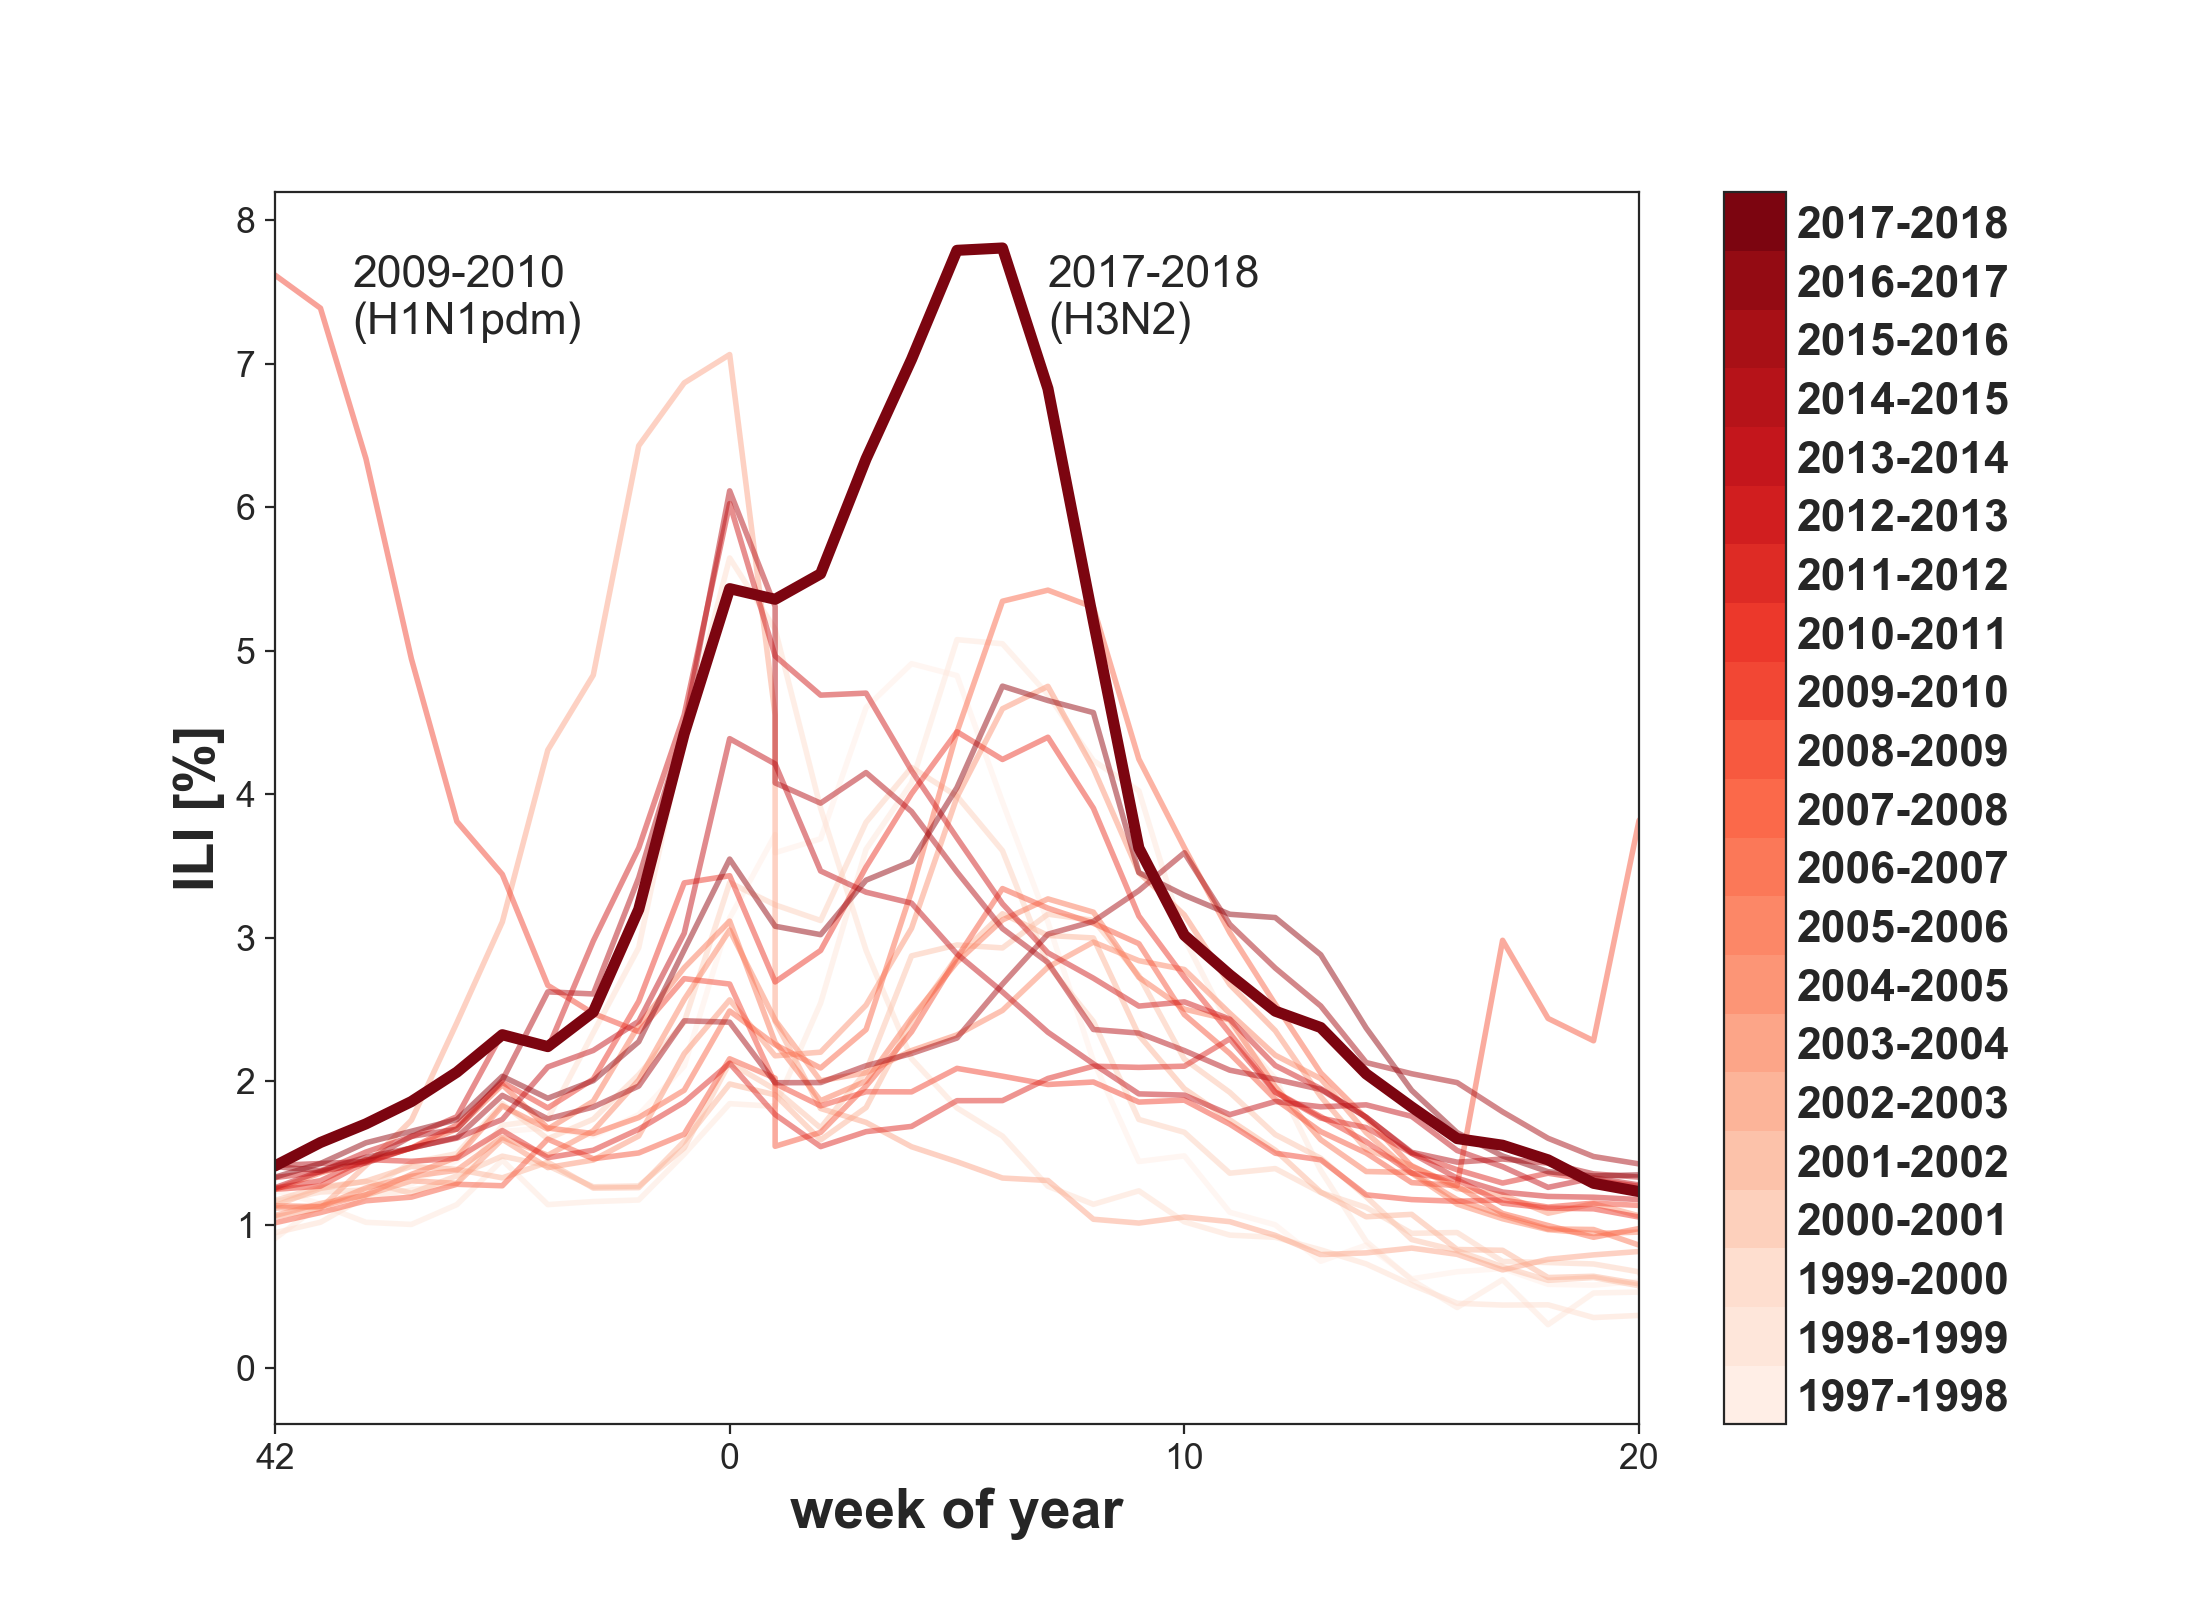
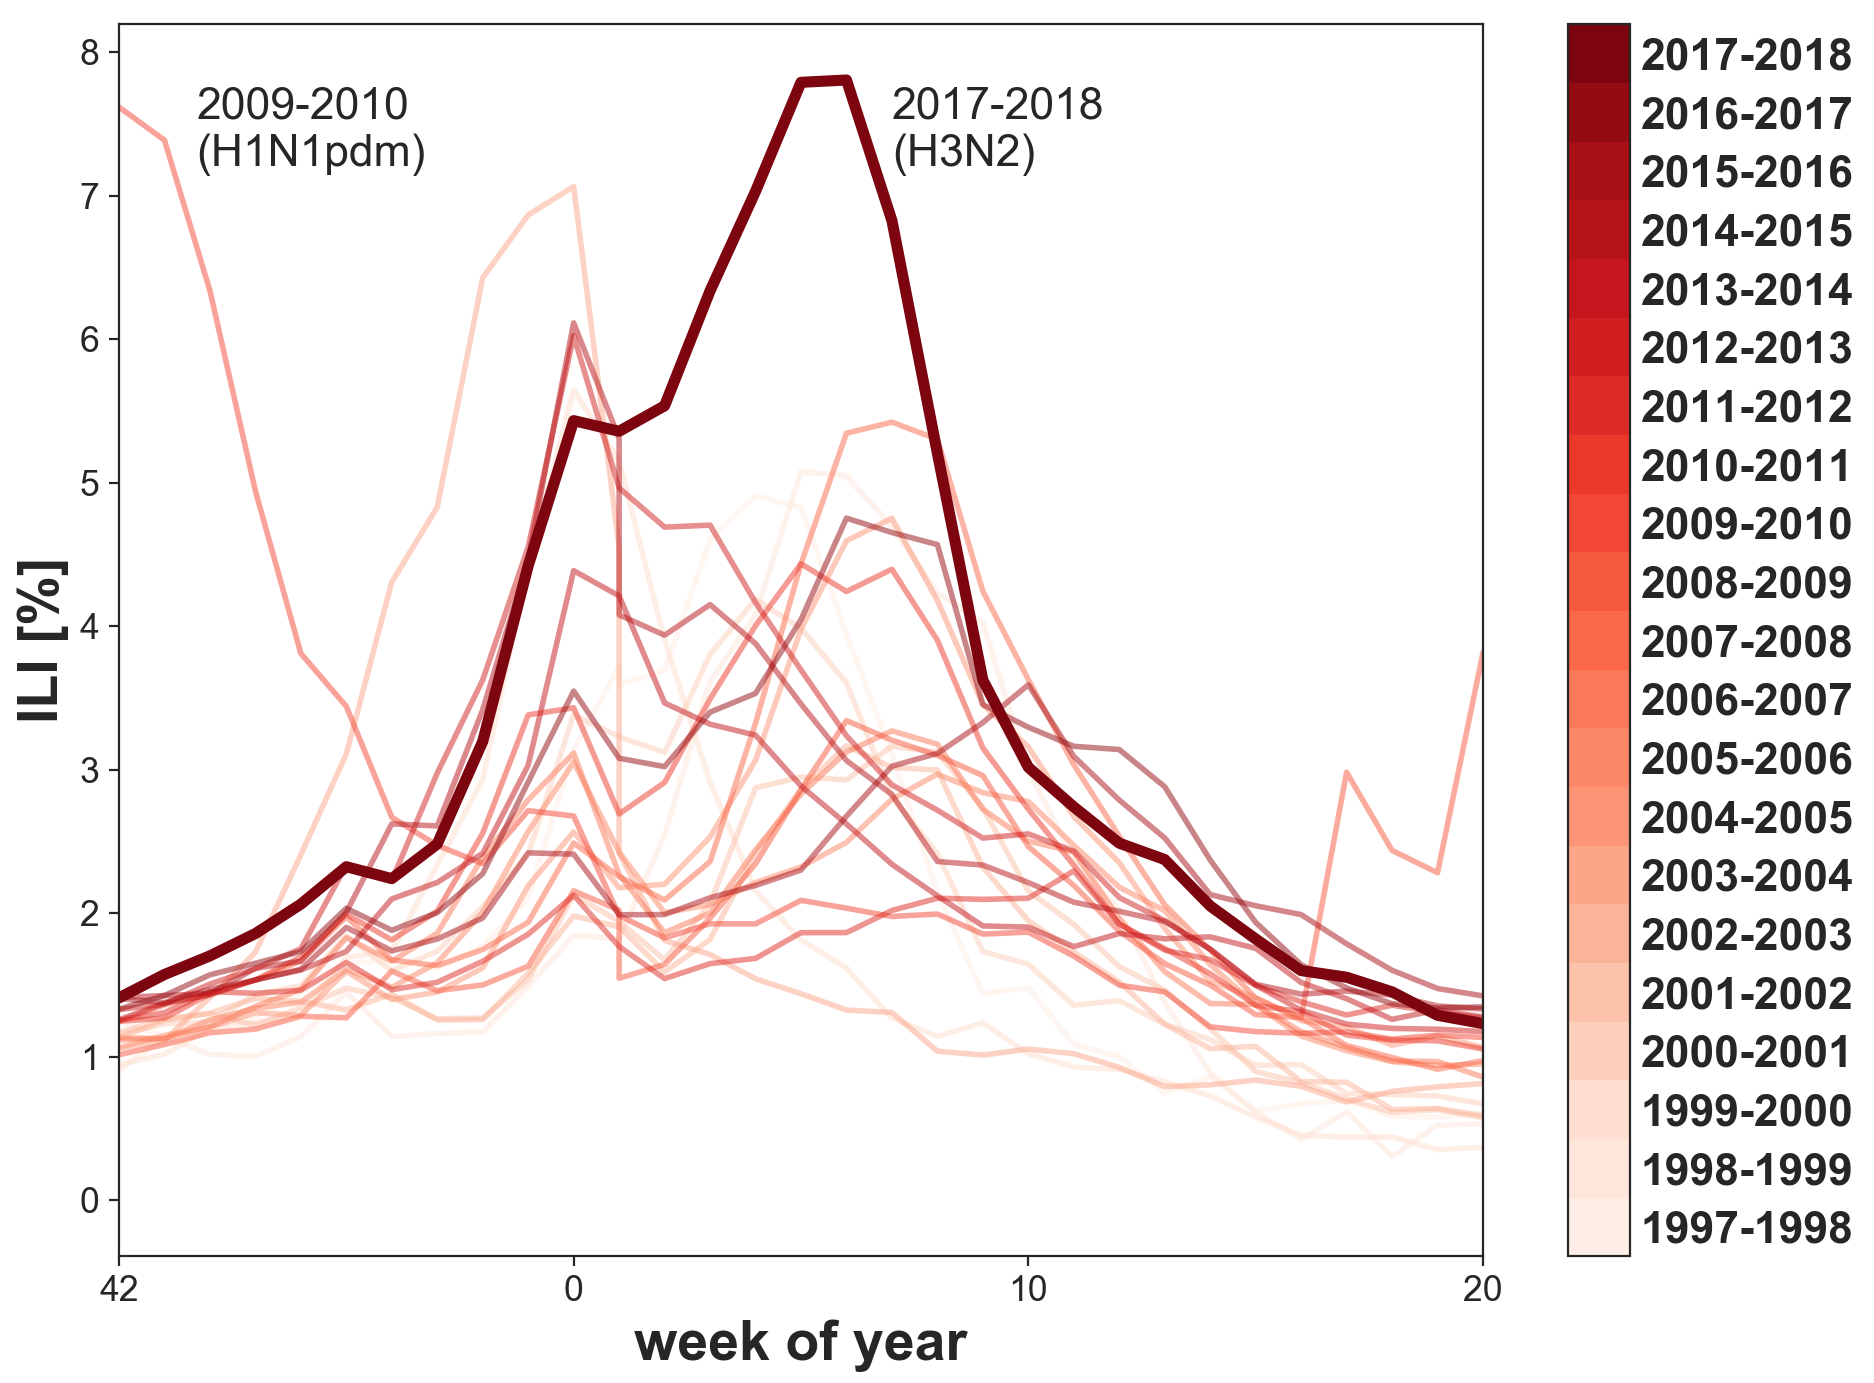
Improve manuscript aethetics
1. Remove RMP style. I really wasn't liking all the white space
this was creating.
2. Remove extraneous whitespace from freq figure and ILI figure
3. Move figures inline

diff --git a/manuscript/main.tex b/manuscript/main.tex
@@ -24,6 +24,14 @@ From this abundance of genomic data, the dynamics of reassortment can be analyze
 Here, we use tools from the Nextstrain project \citep{hadfield_nextstrain_2018} to show that a reassortant A(H3N2) genome constellation dominated the 2017–2018 North American influenza season.
 We go on to show that viruses with this genome constellation had the HA and PB1 segments of one parental virus with the other six segments of another virus, and that the progenitor virus likely emerged in late 2016 or early 2017.
 
+\begin{figure}[t]
+    \begin{center}
+    \includegraphics[width=0.49\textwidth]{figures/ili_1997_2018.png}
+    \end{center}
+    \caption{Percentage of health care visits for influenza-like illness (ILI) in the US from the 1997-1998 to the 2017-2018 season with season indicated by color. The 2017-2018 season is highlighted as a thick line; it showed the highest ILI rate since the 2009 H1N1 pandemic virus. Data from CDC (2018).}
+    \label{fig:ili}
+\end{figure}
+
 \section*{Methods}
 \subsection*{Sequence data}
 We built phylogenetic trees and frequency estimates for each segment of the influenza virus genome containing data from a two-year window between April 2016--April 2018, as well as a small set of older reference viruses.
@@ -53,6 +61,14 @@ At the season’s peak, influenza A viruses were responsible for 7.7\% of all ho
 The fraction of health care visits for ILI surpassed those of the 2009 influenza epidemic season (Fig.~\ref{fig:ili})---a season marked by the emergence of the A(H1N1)pdm09 pandemic virus, that continues to cause annual epidemics in humans \citep{garten_antigenic_2009}.
 In addition to rising to high levels, the ILI score stayed above 4\% for 10 weeks during the 2017-2018 North American influenza season.
 
+\begin{figure}[t]
+    \begin{center}
+    \includegraphics[width=0.49\textwidth]{figures/2y_clades.png}
+    \end{center}
+    \caption{Temporally resolved phylogenetic tree of recent A(H3N2) HA sequences. Shown are influenza viruses sampled between April 2016 and April 2018 colored by clade designation (in addition, the tree shows a small number of earlier reference viruses). Viruses are subsampled to give comparable counts across time and geography. HA segments of the majority of co-circulating A(H3N2) viruses in of the 2017-2018 Northern Hemisphere influenza season fell within clades A1b (top, yellow) or A2 (center, orange). Vaccine viruses are indicated by cross marks. }
+    \label{fig:2y_clades}
+\end{figure}
+
 \subsection*{Genetic diversity of recent A(H3N2) viruses}
 Here, we analyze viral clades, representing clonal descendants of a single common ancestor, on the HA segment of A(H3N2).
 Rapid clade turnover results in an A(H3N2) HA phylogeny in which contemporaneous viruses typically coalescence to a single common ancestor within ~3 years \citep{bedford_global_2015}.
@@ -78,6 +94,22 @@ This subclade—which we denote as A2/re (Fig.~\ref{fig:2y_clades}) appears to h
 The rapid rise of subclade A2/re---coupled with an extraordinarily high incidence of that subclade in North America---stands out.
 By the beginning of 2018, we find the clade viruses belonging to clade A2 increasing to make up almost 70\% of A(H3N2) circulating viruses, overtaking A1b as the dominant HA clade (Fig.~\ref{fig:frequencies}).
 
+\begin{figure}[b]
+    \begin{center}
+    \includegraphics[width=0.49\textwidth]{figures/h3n2_freq_mutations.png}
+    \end{center}
+    \caption{Frequency trajectories of A2 and A2/re clades partitioned by region. We estimate frequencies of different clades based on sample counts and collection dates. These estimates are based on all available data and global frequencies are weighted according to regional population size and relative sampling intensity. We use a Brownian motion process prior to smooth frequencies from month-to-month \citep{neher_nextflu_2015}. Transparent bands show an estimate the 95\% confidence interval based on sample counts.}
+    \label{fig:frequencies}
+\end{figure}
+
+\begin{figure*}[t]
+    \begin{center}
+    \includegraphics[width=0.75\textwidth]{figures/ha_na_tangle.png}
+    \end{center}
+    \caption{\textit{(top)} Reassortment combines existing genetic diversity and results in incongruent phylogenetic trees. The figure shows time-scaled phylogenetic trees of HA (left) and NA (right) colored genotype at HA site 131 and NA site 329. The HA and NA sequences from the virus isolates are connected by lines. We see that the closest relatives for the viruses belonging to A2/re genotype (red) in HA are A2 viruses (blue), while their closest relatives in NA are A1 viruses (purple). \textit{(bottom)} Global estimated frequency plots of virus clades over time. There is moderate growth of A1 viruses prior to the reassortment, but after the reassortment takes place we observe rapid growth of the reassortant clade to approximately 70\% frequency. Branches on the HA tree are labelled by HA clade designation; branches on the NA tree are labelled by NA amino acid substitution. Vaccine strains are indicated by cross marks.}
+    \label{fig:tangle}
+\end{figure*}
+
 \subsection*{Antigenic analysis illustrates little antigenic drift}
 The impact that the amino acid substitutions of the various co-circulating HA clades have on antibody escape were analyzed using post infection ferret antisera against cell-propagated viruses including vaccine strains (Supplemental Table~\ref{sup_tab:titer_table}).
 The recommended A(H3N2) vaccine viruses northern hemisphere were A/Hong Kong/4801/2014-like (i.e., A/Michigan/15/2014) for the 2016-2017 season and A/Singapore/INFIMH-16-0019/2016-like (A/Singapore/INFIMH-16-0019/2016 or A/North Carolina/4/2016) for the 2017-2018 season.
@@ -86,6 +118,14 @@ In fact, only viruses expressing 3c3.A HA’s, which represent a small proportio
 Nevertheless, antisera to the A2 HA containing virus (A/Nebraska/02/2017) efficiently neutralizes viruses containing A2 HA’s and poorly neutralizes viruses expressing other HA clades (Supplemental Table 1, Supplemental Fig 1).
 Collectively, antigenic analysis data indicates that while the A2 HA proteins are antigenically distinct, they have not significantly drifted from 3c2.A HA proteins and it does not explain their predominance in North America during the 2017-2018 season.
 Consistently, substitutions to epitope sites show that the A2 clade is slightly drifted relative to ancestral 3c2.A viruses, but show little variation within clade A2 (Supplementary Fig. S1).
+
+\begin{figure*}[t]
+    \begin{center}
+    \includegraphics[width=0.75\textwidth]{figures/railroad_plot.png}
+    \end{center}
+    \caption{Segments from two backgrounds of A(H3N2) reassorted to form the A2/re clade (red). Segments HA and PB1 from an A2-like background (blue)combined with the six other segments from an A1b-like virus(yellow). Diagonal lines between November 2016 and February 2017 indicate the inferred timing of the reassortment.}
+    \label{fig:railroad}
+\end{figure*}
 
 \subsection*{Genome reassortment events among circulating viruses leads to A2/re genotype}
 When reassortment occurs between viruses from established clades in the HA and NA RNA segments, incongruent phylogenetic relationships are created so that a reassortment event within clade A2 viruses is immediately visible (Fig.~\ref{fig:tangle}).
@@ -142,43 +182,3 @@ We believe that integrating these sources of information to models of influenza 
 This work was supported by NIH National Institute of General Medical Science (NIGMS) grant R35 GM119774-01 (to T.B.) and by NIH National Institute of Allergy and Infectious Diseases (NIAID) grant U19 AI117891 (to T.B.). T.B. is a Pew Biomedical Scholar.
 
 The findings and conclusions in this report are those of the author(s) and do not necessarily represent the official position of the Centers for Disease Control and Prevention.
-
-\begin{figure*}[b]
-    \begin{center}
-    \includegraphics[width=0.8\textwidth]{figures/ili_1997_2018.png}
-    \end{center}
-    \caption{Percentage of health care visits for influenza-like illness (ILI) in the US from the 1997-1998 to the 2017-2018 season with season indicated by color. The 2017-2018 season is highlighted as a thick line; it showed the highest ILI rate since the 2009 H1N1 pandemic virus. Data from CDC (2018).}
-    \label{fig:ili}
-\end{figure*}
-
-\begin{figure*}[b]
-    \begin{center}
-    \includegraphics[width=0.8\textwidth]{figures/2y_clades.png}
-    \end{center}
-    \caption{Temporally resolved phylogenetic tree of recent A(H3N2) HA sequences. Shown are influenza viruses sampled between April 2016 and April 2018 colored by clade designation (in addition, the tree shows a small number of earlier reference viruses). Viruses are subsampled to give comparable counts across time and geography. HA segments of the majority of co-circulating A(H3N2) viruses in of the 2017-2018 Northern Hemisphere influenza season fell within clades A1b (top, yellow) or A2 (center, orange). Vaccine viruses are indicated by cross marks. }
-    \label{fig:2y_clades}
-\end{figure*}
-
-\begin{figure*}[b]
-    \begin{center}
-    \includegraphics[width=0.8\textwidth]{figures/h3n2_freq_mutations.png}
-    \end{center}
-    \caption{Frequency trajectories of A2 and A2/re clades partitioned by region. We estimate frequencies of different clades based on sample counts and collection dates. These estimates are based on all available data and global frequencies are weighted according to regional population size and relative sampling intensity. We use a Brownian motion process prior to smooth frequencies from month-to-month \citep{neher_nextflu_2015}. Transparent bands show an estimate the 95\% confidence interval based on sample counts.}
-    \label{fig:frequencies}
-\end{figure*}
-
-\begin{figure*}[b]
-    \begin{center}
-    \includegraphics[width=0.8\textwidth]{figures/ha_na_tangle.png}
-    \end{center}
-    \caption{\textit{(top)} Reassortment combines existing genetic diversity and results in incongruent phylogenetic trees. The figure shows time-scaled phylogenetic trees of HA (left) and NA (right) colored genotype at HA site 131 and NA site 329. The HA and NA sequences from the virus isolates are connected by lines. We see that the closest relatives for the viruses belonging to A2/re genotype (red) in HA are A2 viruses (blue), while their closest relatives in NA are A1 viruses (purple). \textit{(bottom)} Global estimated frequency plots of virus clades over time. There is moderate growth of A1 viruses prior to the reassortment, but after the reassortment takes place we observe rapid growth of the reassortant clade to approximately 70\% frequency. Branches on the HA tree are labelled by HA clade designation; branches on the NA tree are labelled by NA amino acid substitution. Vaccine strains are indicated by cross marks.}
-    \label{fig:tangle}
-\end{figure*}
-
-\begin{figure*}[b]
-    \begin{center}
-    \includegraphics[width=0.8\textwidth]{figures/railroad_plot.png}
-    \end{center}
-    \caption{Segments from two backgrounds of A(H3N2) reassorted to form the A2/re clade (red). Segments HA and PB1 from an A2-like background (blue)combined with the six other segments from an A1b-like virus(yellow). Diagonal lines between November 2016 and February 2017 indicate the inferred timing of the reassortment.}
-    \label{fig:railroad}
-\end{figure*}

diff --git a/manuscript/h3n2_reassortment.tex b/manuscript/h3n2_reassortment.tex
@@ -1,6 +1,6 @@
 %\documentclass[12pt]{article}
 %\documentclass[aps,rmp,preprint,linenumbers]{revtex4-1}
-\documentclass[aps,rmp,twocolumn,superscriptaddress,raggedbottom]{revtex4-1}
+\documentclass[aps,twocolumn,superscriptaddress,raggedbottom]{revtex4-1}
 
 \usepackage{times}
 \usepackage{graphicx}
